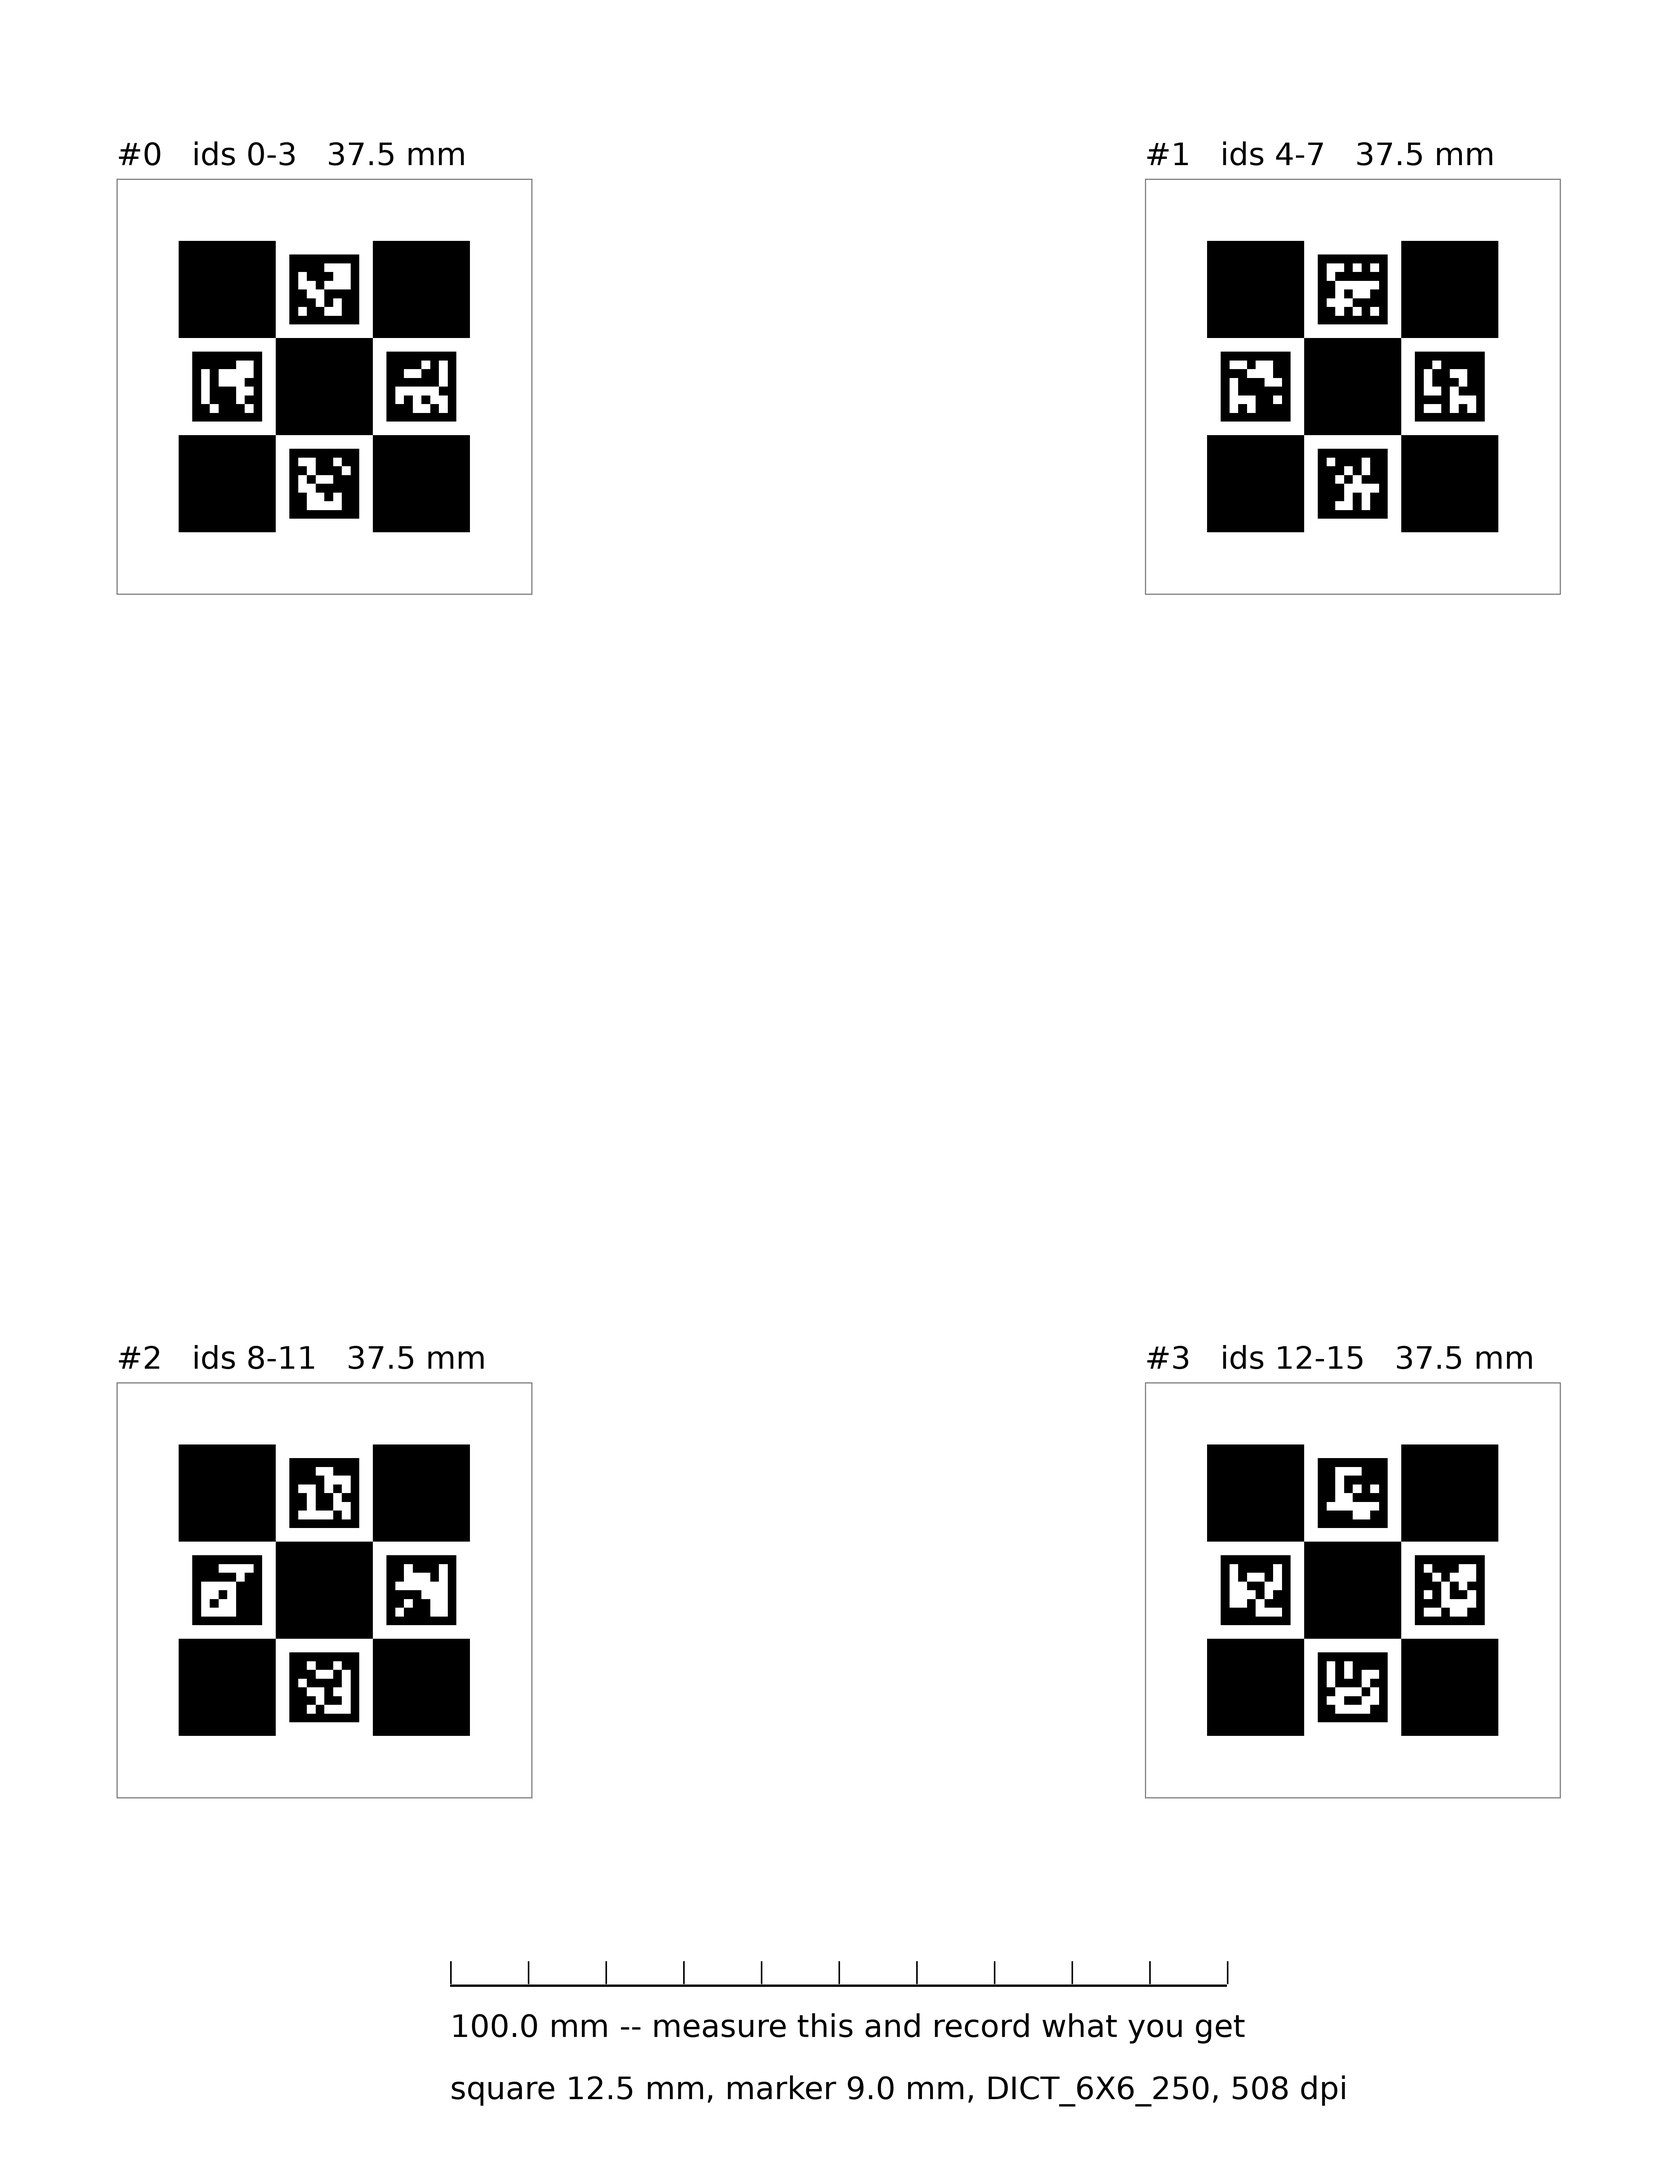
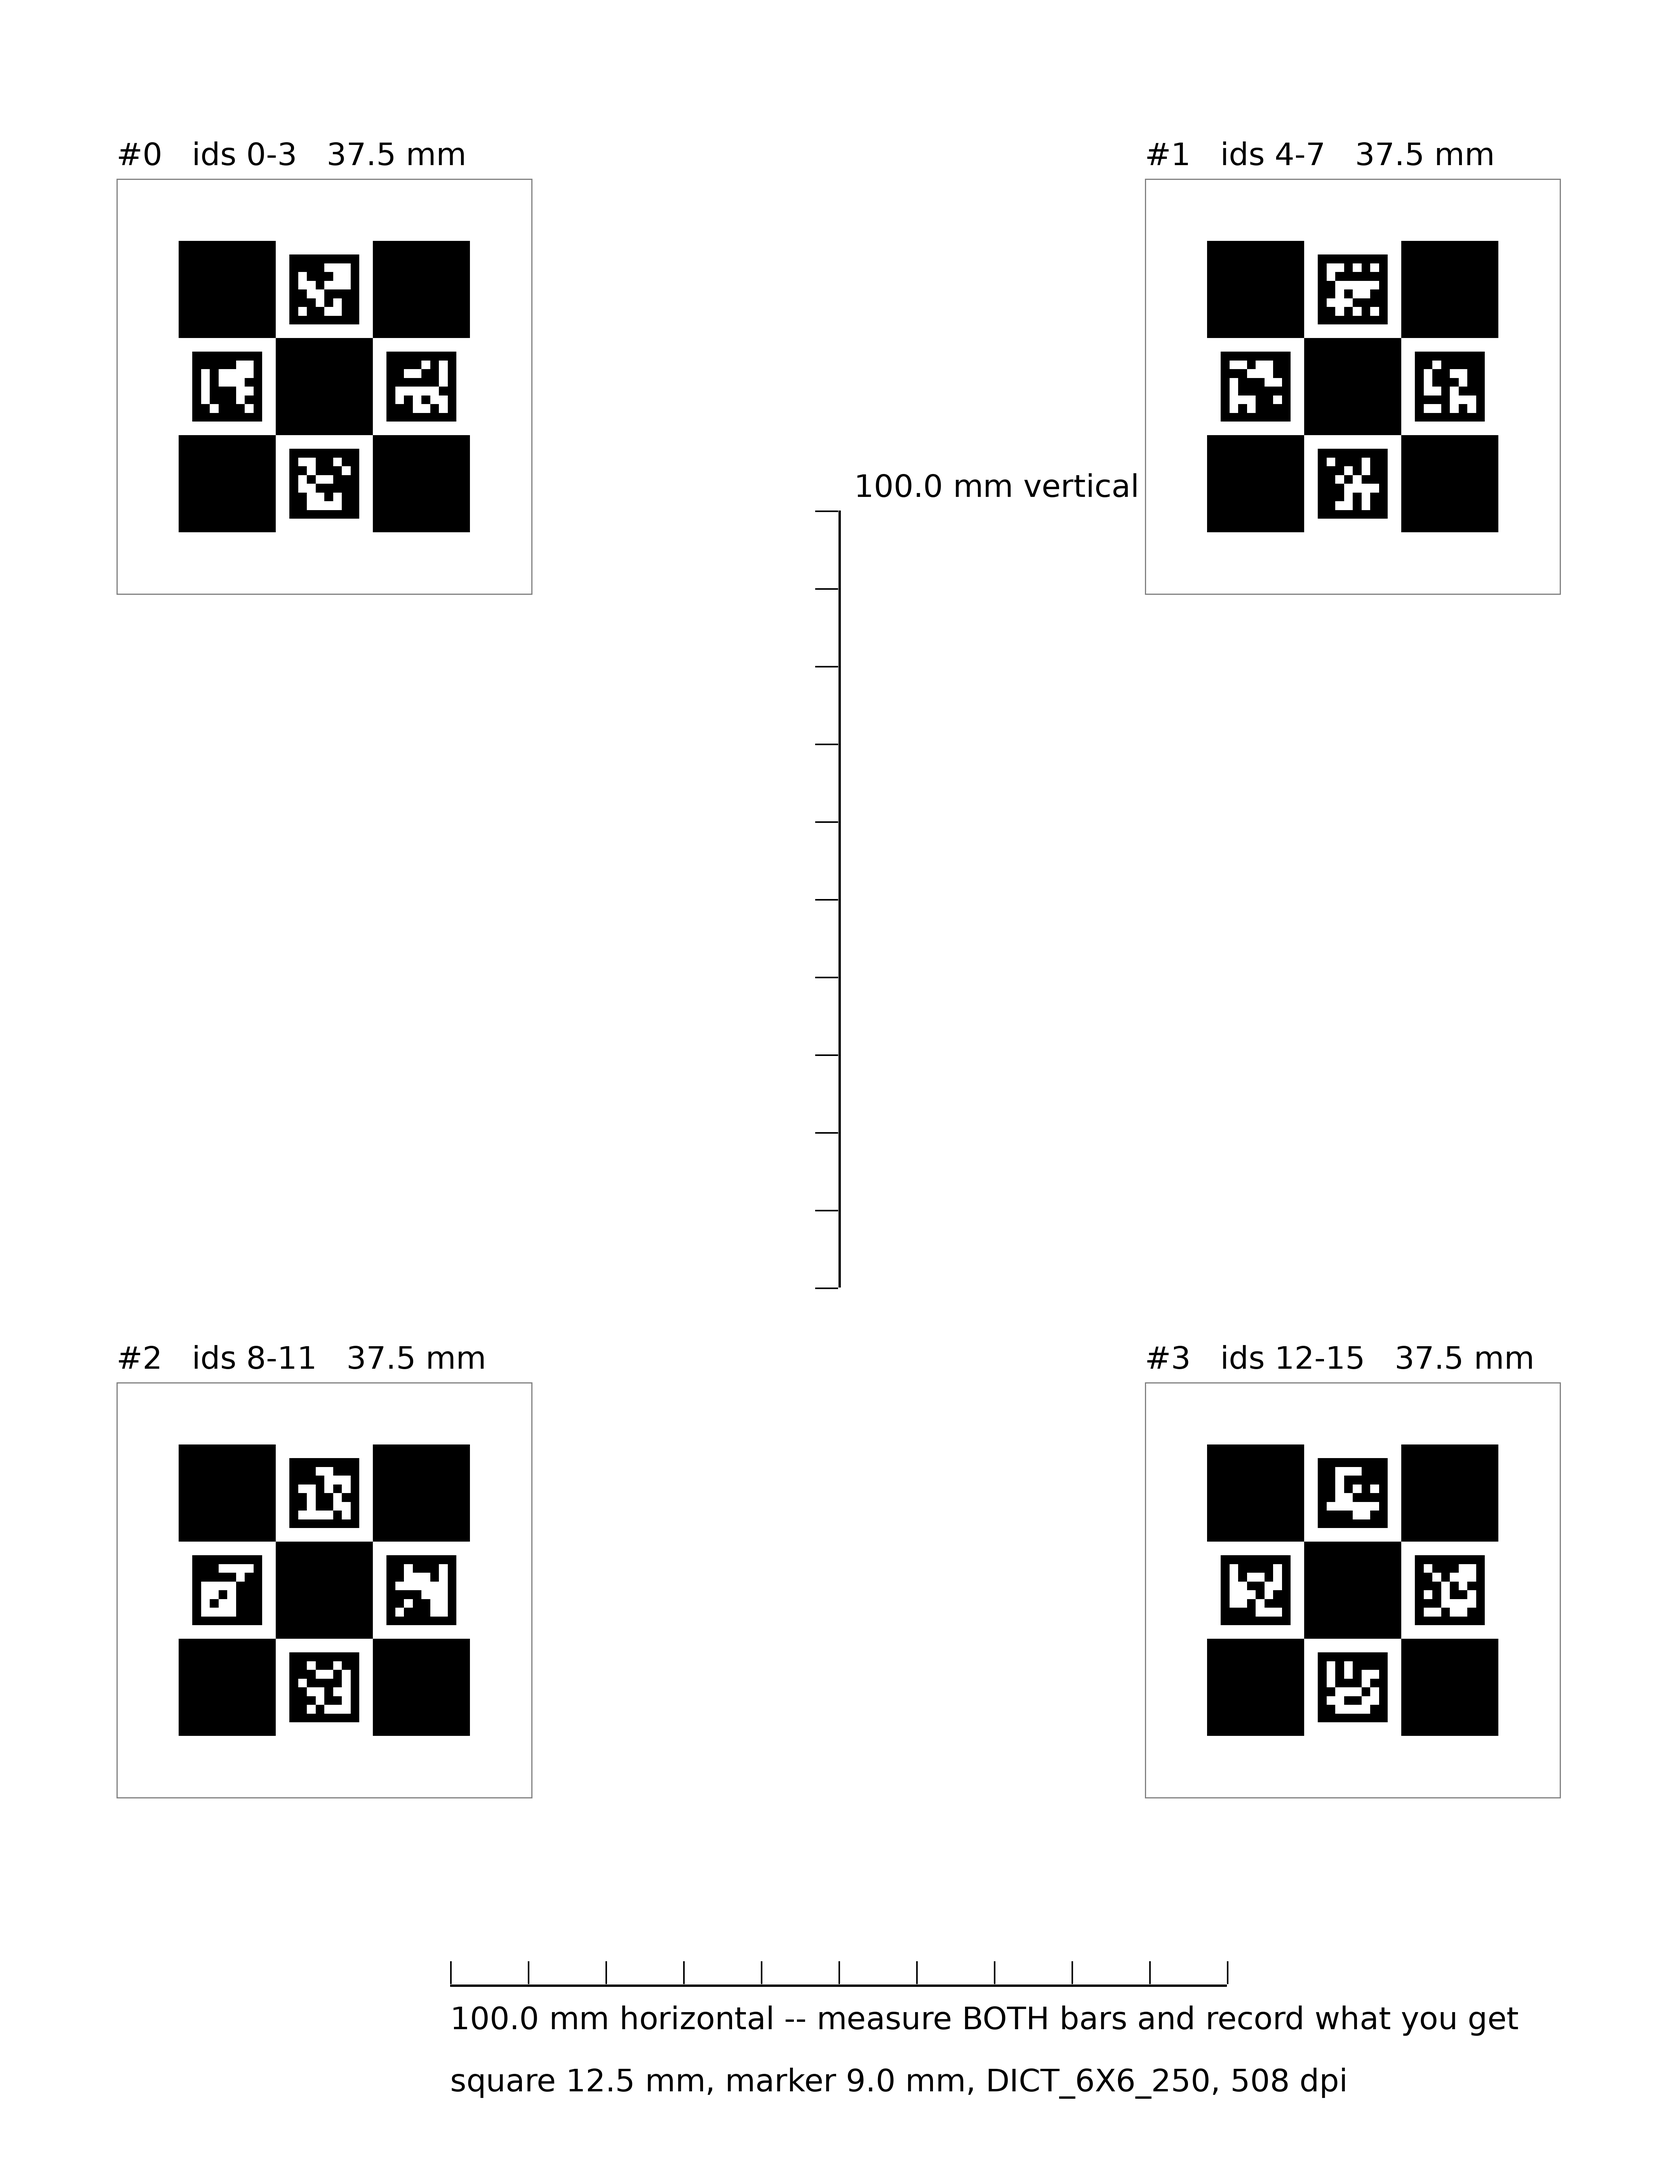
Add a vertical scale bar, and regenerate the sheet
One bar measures one axis, and this printer stretches its axes by
different amounts. The sheet now carries a 100 mm horizontal bar in
the foot and a 100 mm vertical one down the centre, between the
columns of boards -- a band 78.9 mm wide that stays clear as the
layout changes, where a bar in the left page margin fits today and
lands on a target the moment the margin or the board size moves.

render now refuses if either bar would cross a board, rather than
drawing over it, which is the same stance the file already takes on a
sheet too small or cut boxes that would overlap.

scale_bar_mm takes an axis and measures the vertical bar by
transposing. The default stays horizontal, so nothing that already
called it changes.

Verified by stretching a rendered sheet 1.27 per cent across and 1.42
down: both bars read their stretched lengths and their ratio recovers
the difference to better than 0.4 per cent, which is the thing a
single bar cannot do.

Changed region(s): [[0.2793, 0.903, 0.8069, 0.9653], [0.6207, 0.218, 0.6517, 0.2491], [0.5276, 0.218, 0.5586, 0.2491]]

diff --git a/bin/make_peg_targets_test.py b/bin/make_peg_targets_test.py
@@ -151,7 +151,6 @@ def test_the_scale_bar_is_the_length_it_claims():
     assert mt.scale_bar_mm(sheet, PPM) == pytest.approx(100.0, abs=0.2)
 
 
-@pytest.mark.xfail(strict=True, reason="there is only one bar")
 def test_there_is_a_vertical_bar_too_and_it_is_also_true():
     """One bar measures one axis.
 
@@ -165,7 +164,6 @@ def test_there_is_a_vertical_bar_too_and_it_is_also_true():
         100.0, abs=0.2)
 
 
-@pytest.mark.xfail(strict=True, reason="there is only one bar")
 def test_each_bar_measures_only_itself():
     """They must not touch, or each reads the other's length."""
     sheet = _sheet()
@@ -181,7 +179,6 @@ def test_the_default_axis_stays_horizontal():
         sheet, PPM, axis="x")
 
 
-@pytest.mark.xfail(strict=True, reason="there is only one bar")
 def test_the_bars_recover_an_anisotropy_that_was_applied():
     """The point of the feature, tested as the point.
 
@@ -200,7 +197,6 @@ def test_the_bars_recover_an_anisotropy_that_was_applied():
     assert down / across == pytest.approx(fy / fx, abs=0.004)
 
 
-@pytest.mark.xfail(strict=True, reason="there is only one bar")
 def test_neither_bar_lands_on_a_board():
     """A bar crossing a target would corrupt both."""
     side = mt.board_side_mm(SQUARES, SQUARE_MM)

diff --git a/data/calibration/targets/peg-targets-3x3-12.5mm.md b/data/calibration/targets/peg-targets-3x3-12.5mm.md
@@ -25,10 +25,18 @@ the squares. The four chessboard corners each piece contributes are
 but a cut a millimetre inside it destroys the contrast a corner is
 made of.
 
-**Measure the scale bar after printing and record what you get.** The
-7 x 9 board came out 1.27 % oversize with a 0.15 % anisotropy between
-its axes, and this print will have its own error. A 1 % error here is
-a millimetre on the bar, which a caliper reads without argument.
+**Measure BOTH scale bars after printing and record what you get.**
+There is a 100 mm horizontal bar in the foot and a 100 mm vertical one
+down the centre, because one bar measures one axis. The 7 x 9 board
+came out 1.27 % oversize with the two axes differing by 0.15 %, so a
+single bar would have caught most of that error and silently missed
+the difference. A 1 % error is a whole millimetre on a bar, which a
+caliper reads without argument.
+
+The bars are drawn as filled rectangles of an exact pixel count rather
+than as stroked lines, whose end caps added 0.2 mm — a sixth of the
+error being hunted — and the ticks stop one pixel short so they cannot
+join a bar and lengthen it.
 
 Licence: as `../targets/README.md` — the board is generated from
 OpenCV's `DICT_6X6_250`, which carries no third-party claim, unlike
